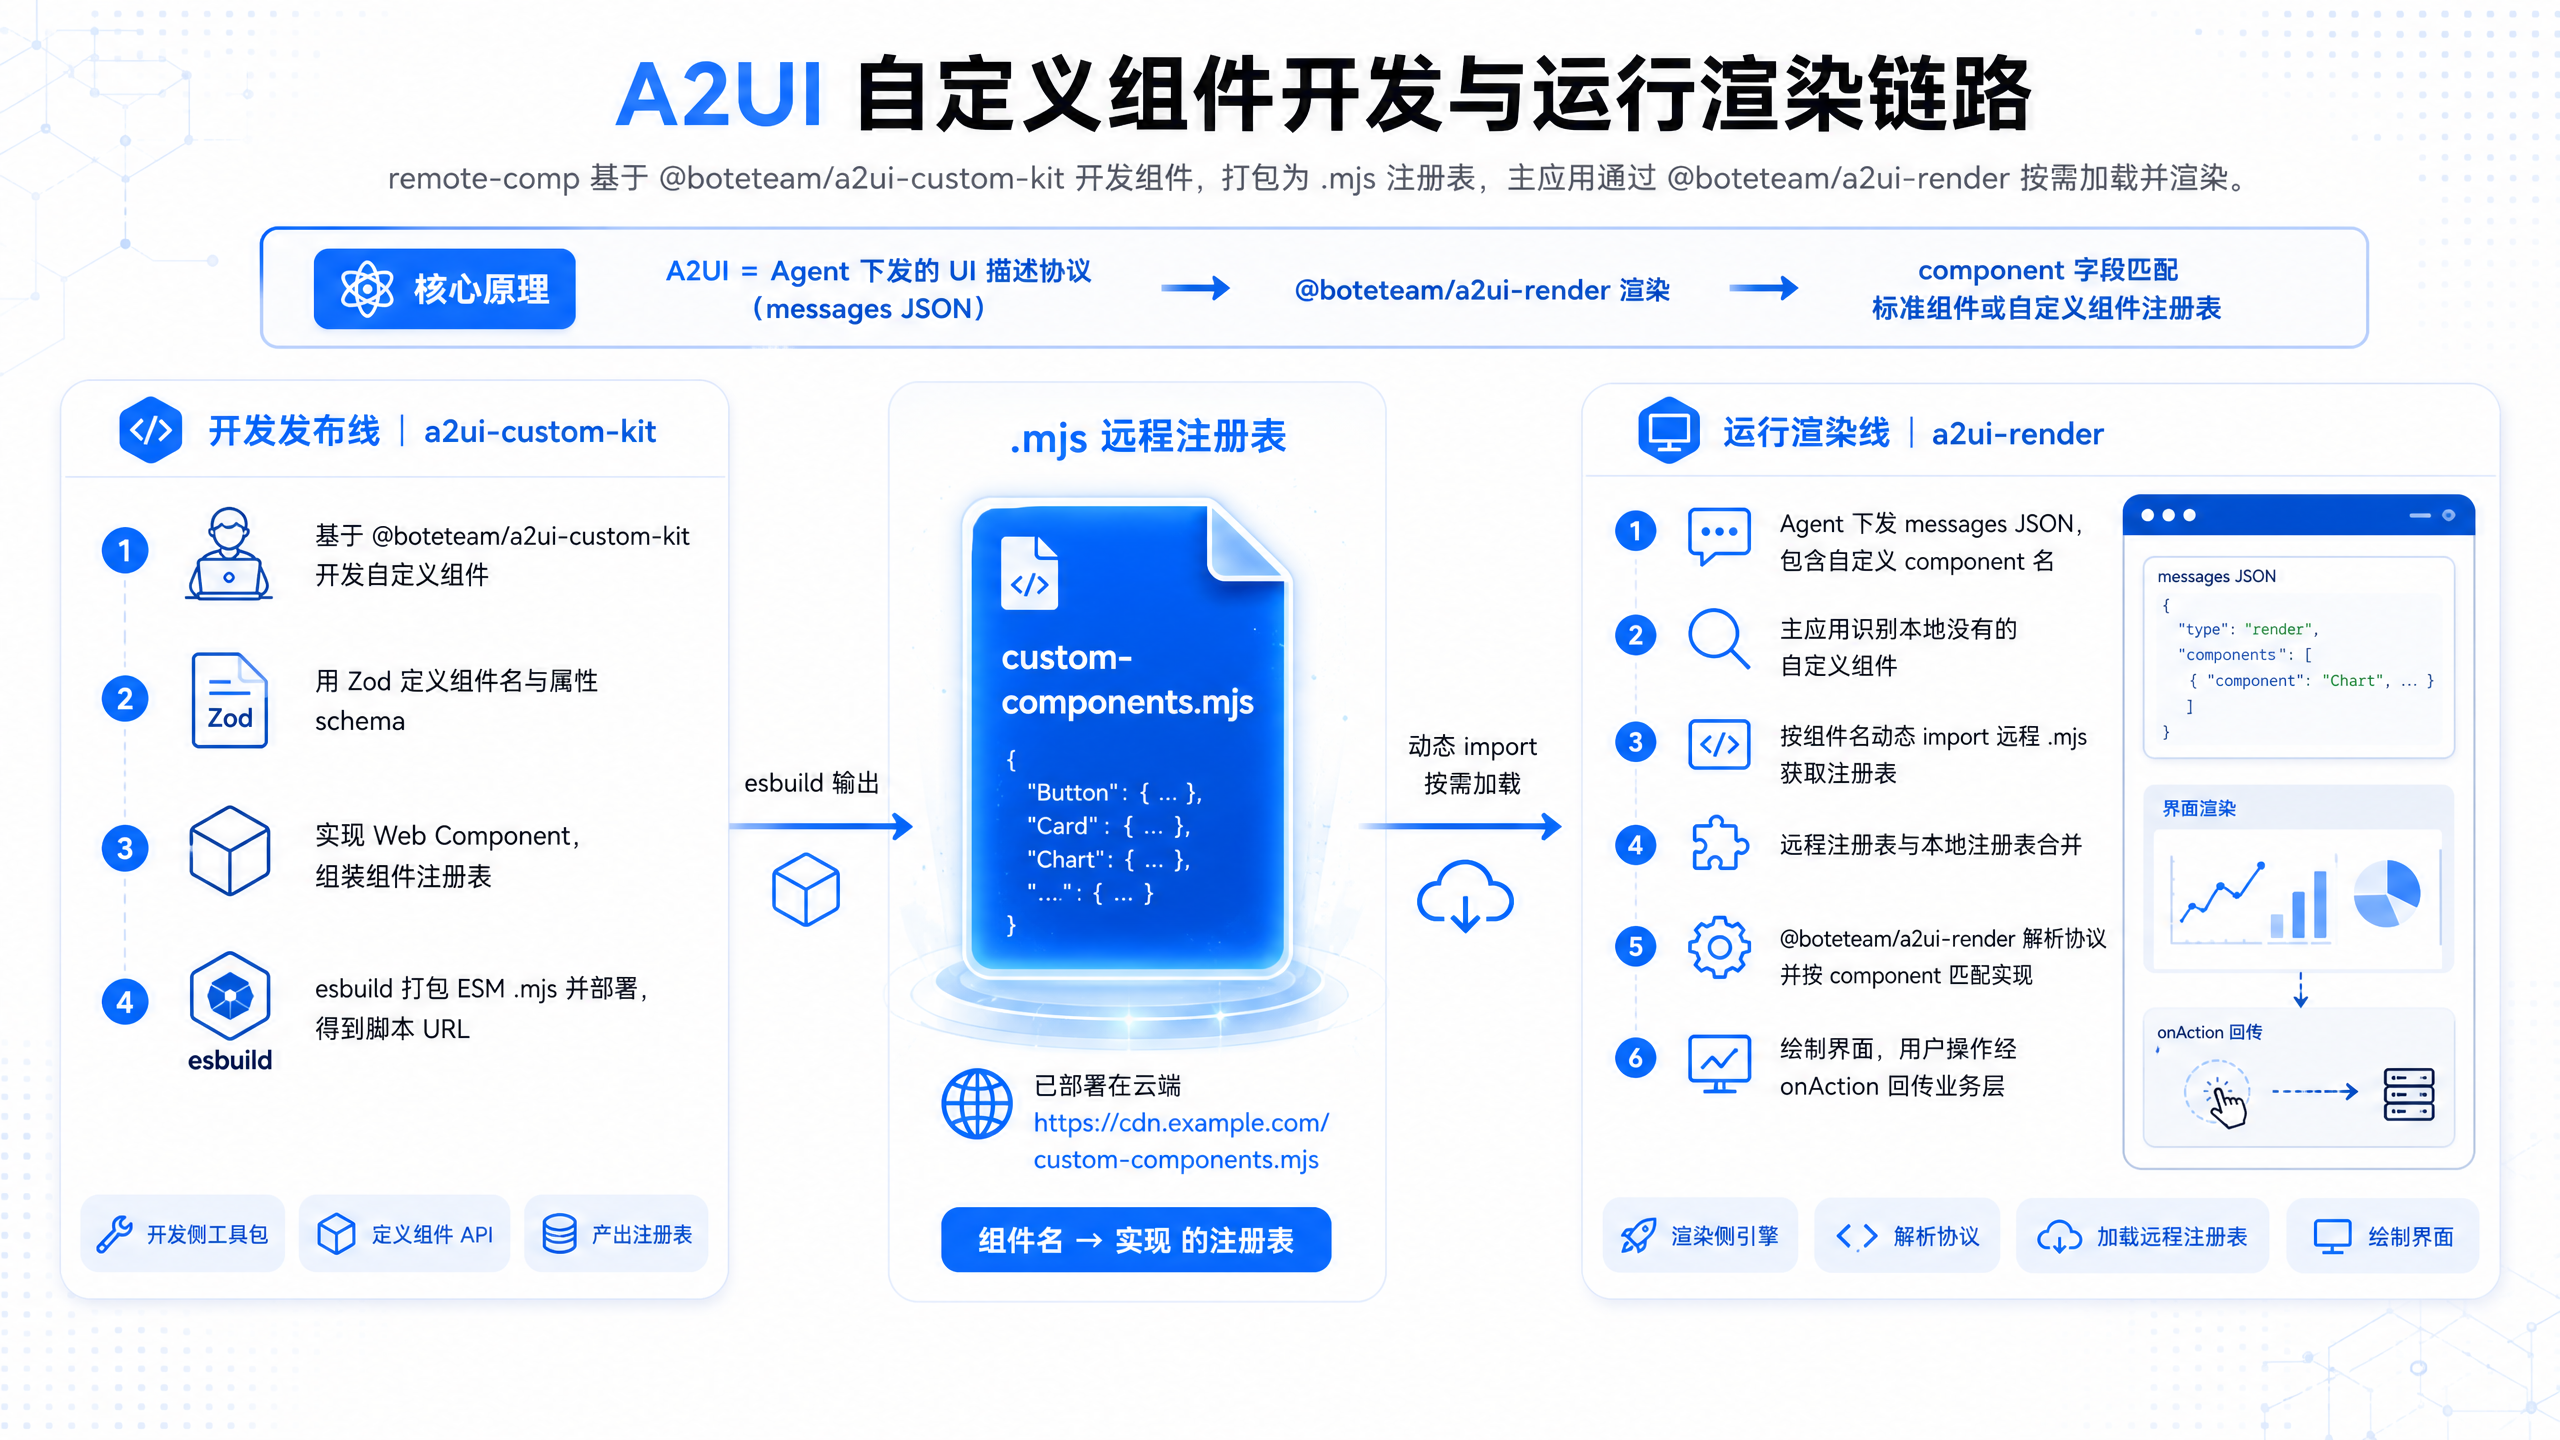
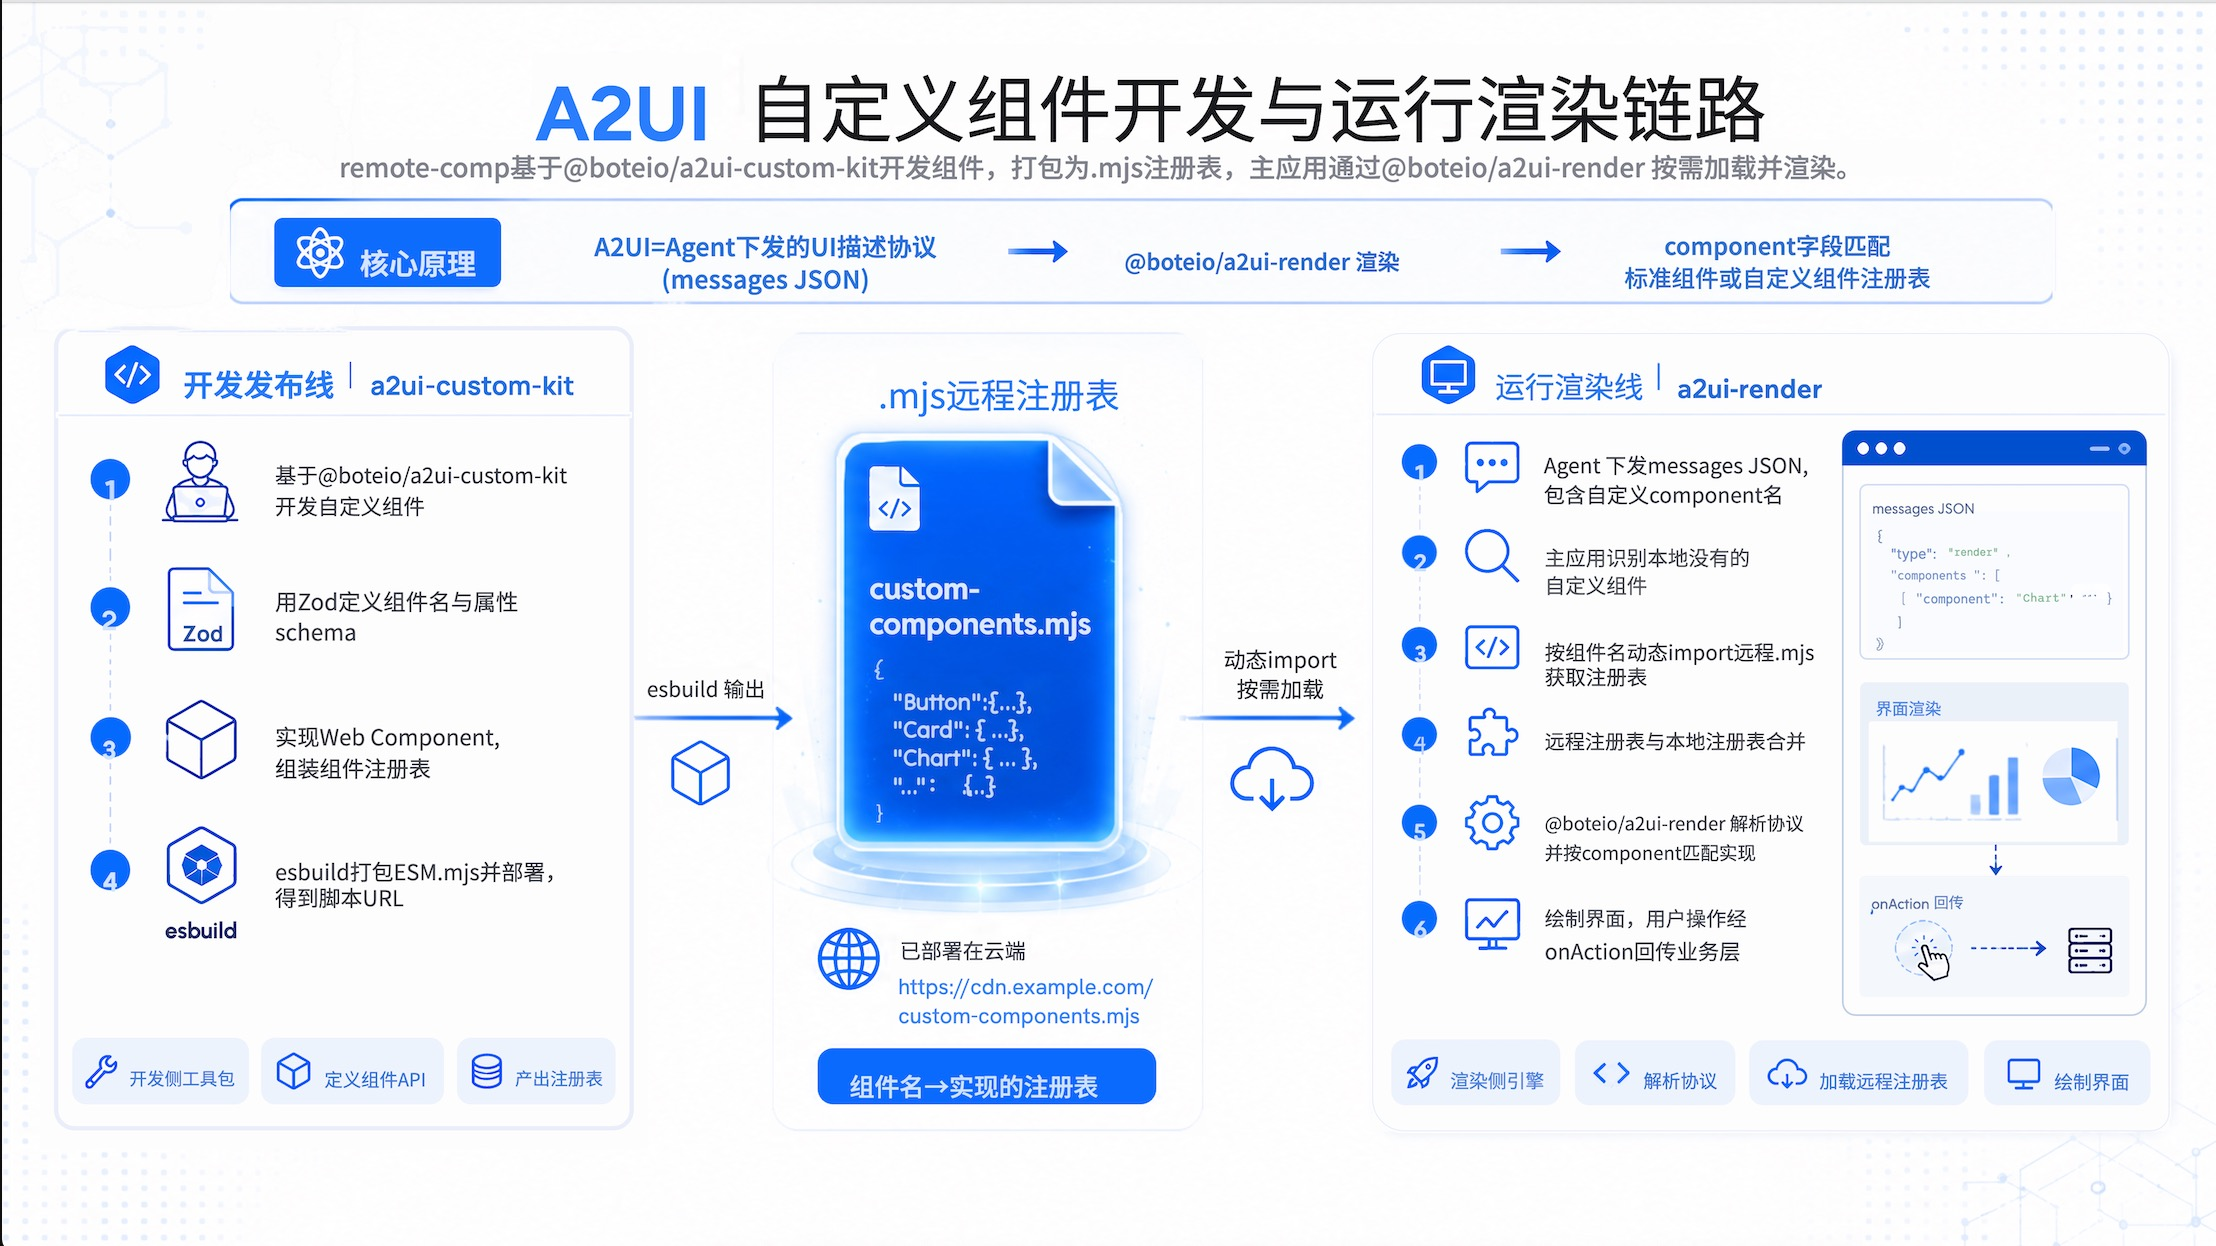
组装名bote 修改为boteio

diff --git a/app/src/pages/a2ui-playgroup/shared/DemoCard.tsx b/app/src/pages/a2ui-playgroup/shared/DemoCard.tsx
@@ -4,8 +4,8 @@ import {
   BaseRenderer,
   type A2UIMessage,
   type A2UIThemePreset,
-} from '@bote/a2ui-render';
-import type { A2UICustomComponentRegistry } from '@bote/a2ui-custom-kit';
+} from '@boteai/a2ui-render';
+import type { A2UICustomComponentRegistry } from '@boteai/a2ui-custom-kit';
 import type { GalleryItem } from './gallery';
 import { navigateTo, openGuideUrl } from './navigate';
 import styles from './index.less';

diff --git a/app/src/pages/a2ui-playgroup/shared/GalleryPlayground.tsx b/app/src/pages/a2ui-playgroup/shared/GalleryPlayground.tsx
@@ -16,8 +16,8 @@ import {
   BaseRenderer,
   type A2UIMessage,
   type A2UIThemePreset,
-} from '@bote/a2ui-render';
-import type { A2UICustomComponentRegistry } from '@bote/a2ui-custom-kit';
+} from '@boteai/a2ui-render';
+import type { A2UICustomComponentRegistry } from '@boteai/a2ui-custom-kit';
 import DemoCard from './DemoCard';
 import { GALLERY_CATEGORIES, GALLERY_CATEGORY_LABELS } from './galleryCategories';
 import type { GalleryCategoryId, GalleryItem } from './gallery';

diff --git a/app/src/pages/a2ui-playgroup/shared/PlaygroundEditor.tsx b/app/src/pages/a2ui-playgroup/shared/PlaygroundEditor.tsx
@@ -4,8 +4,8 @@ import {
   BaseRenderer,
   type A2UIMessage,
   type A2UIThemePreset,
-} from '@bote/a2ui-render';
-import type { A2UICustomComponentRegistry } from '@bote/a2ui-custom-kit';
+} from '@boteai/a2ui-render';
+import type { A2UICustomComponentRegistry } from '@boteai/a2ui-custom-kit';
 import styles from './index.less';
 
 const { TextArea } = Input;

diff --git a/app/src/pages/a2ui-playgroup/shared/gallery.ts b/app/src/pages/a2ui-playgroup/shared/gallery.ts
@@ -1,4 +1,4 @@
-import type { A2UIMessage } from '@bote/a2ui-render';
+import type { A2UIMessage } from '@boteai/a2ui-render';
 
 export type GalleryCategoryId = 'all' | 'card' | 'form' | 'data' | 'special';
 
@@ -18,7 +18,7 @@ type V09GalleryFile = {
   messages?: A2UIMessage[];
 };
 
-/** 与 @bote/a2ui-render litCompat09 中 basicCatalog.id 对齐 */
+/** 与 @boteai/a2ui-render litCompat09 中 basicCatalog.id 对齐 */
 const V09_BASIC_CATALOG_ID = 'https://a2ui.org/specification/v0_9/basic_catalog.json';
 
 function normalizeV09GalleryMessages(messages: A2UIMessage[]): A2UIMessage[] {

diff --git a/app/src/pages/a2ui-playgroup/v9/remoteRegistry.ts b/app/src/pages/a2ui-playgroup/v9/remoteRegistry.ts
@@ -1,5 +1,5 @@
-import { defineRegistryEntry, mergeRegistryEntries } from '@bote/a2ui-custom-kit';
-import type { A2UICustomComponentRegistry } from '@bote/a2ui-custom-kit';
+import { defineRegistryEntry, mergeRegistryEntries } from '@boteai/a2ui-custom-kit';
+import type { A2UICustomComponentRegistry } from '@boteai/a2ui-custom-kit';
 import { DemoNativeElementApi } from '../../a2ui-remote/DemoNativeElement/api';
 import { DemoNativeElementElement } from '../../a2ui-remote/DemoNativeElement/element';
 import { DemoReactComponentApi } from '../../a2ui-remote/DemoReactComponent/api';

diff --git a/packages/a2ui-custom-kit/src/types/customRegistry.ts b/packages/a2ui-custom-kit/src/types/customRegistry.ts
@@ -1,6 +1,6 @@
 /**
- * A2UI 自定义组件注册表：与 `@bote/a2ui-render` 的 `BaseRenderer` 的 `customComponents` 一致。
- * 由 `@bote/a2ui-custom-kit` 产出合并结果时，类型与此对齐。
+ * A2UI 自定义组件注册表：与 `@boteai/a2ui-render` 的 `BaseRenderer` 的 `customComponents` 一致。
+ * 由 `@boteai/a2ui-custom-kit` 产出合并结果时，类型与此对齐。
  */
 
 /** 自定义 Lit 组件定义：可直接传构造器，或传包含 tagName、schema 的配置对象 */

diff --git a/packages/a2ui-custom-kit/templates/remote-comp-a2ui/index.example.tsx b/packages/a2ui-custom-kit/templates/remote-comp-a2ui/index.example.tsx
@@ -2,7 +2,7 @@
  * 复制到 remote-comp：src/pages/A2UIRemoteGlow/index.tsx
  * lingxirc remoteComponents.entry 增加 'A2UIRemoteGlow'；给主应用 import 请用 yarn build:a2ui-esm 产出 .mjs，勿用 lingxi 的 build:remote .js
  *
- * 依赖：在 remote-comp 的 package.json 增加与主应用同版本的 @bote/a2ui-custom-kit
+ * 依赖：在 remote-comp 的 package.json 增加与主应用同版本的 @boteai/a2ui-custom-kit
  */
 import { z } from 'zod';
 import {
@@ -14,7 +14,7 @@ import {
   mergeRegistryEntries,
   readComponentProps,
   readStringProp,
-} from '@bote/a2ui-custom-kit/remote-runtime';
+} from '@boteai/a2ui-custom-kit/remote-runtime';
 
 const RemoteGlowCapsuleApi = defineComponentApi({
   name: 'RemoteGlowCapsule',

diff --git a/packages/a2ui-render/src/types/customRegistry.ts b/packages/a2ui-render/src/types/customRegistry.ts
@@ -1,6 +1,6 @@
 /**
- * A2UI 自定义组件注册表：与 `@bote/a2ui-render` 的 `BaseRenderer` 的 `customComponents` 一致。
- * 由 `@bote/a2ui-custom-kit` 产出合并结果时，类型与此对齐。
+ * A2UI 自定义组件注册表：与 `@boteai/a2ui-render` 的 `BaseRenderer` 的 `customComponents` 一致。
+ * 由 `@boteai/a2ui-custom-kit` 产出合并结果时，类型与此对齐。
  */
 
 /** 自定义 Lit 组件定义：可直接传构造器，或传包含 tagName、schema 的配置对象 */

diff --git a/scripts/publish.js b/scripts/publish.js
@@ -10,8 +10,8 @@ const rootDir = path.resolve(__dirname, '..');
 const PACKAGE_MAP = {
   'a2ui-render': 'packages/a2ui-render',
   'a2ui-custom-kit': 'packages/a2ui-custom-kit',
-  '@bote/a2ui-render': 'packages/a2ui-render',
-  '@bote/a2ui-custom-kit': 'packages/a2ui-custom-kit',
+  '@boteai/a2ui-render': 'packages/a2ui-render',
+  '@boteai/a2ui-custom-kit': 'packages/a2ui-custom-kit',
 };
 
 // ─── 参数解析 ───

diff --git a/app/scripts/a2ui-schema-registry.ts b/app/scripts/a2ui-schema-registry.ts
@@ -2,7 +2,7 @@
  * 在此登记需要导出 JSON Schema 的 ComponentApi。
  * 新增远程组件时：在对应目录 export Api 后在此追加一项。
  */
-import { componentApiToJsonSchema2019 } from '@bote/a2ui-custom-kit';
+import { componentApiToJsonSchema2019 } from '@boteai/a2ui-custom-kit';
 import { DemoNativeElementApi } from '../src/pages/a2ui-remote/DemoNativeElement/api';
 import { DemoReactComponentApi } from '../src/pages/a2ui-remote/DemoReactComponent/api';
 import { DemoStyledPanelApi } from '../src/pages/a2ui-remote/DemoStyledPanel/api';

diff --git a/app/src/pages/a2ui-playgroup/v9/index.tsx b/app/src/pages/a2ui-playgroup/v9/index.tsx
@@ -1,5 +1,5 @@
 import React, { useMemo } from 'react';
-import type { A2UIMessage } from '@bote/a2ui-render';
+import type { A2UIMessage } from '@boteai/a2ui-render';
 import GalleryPlayground from '../shared/GalleryPlayground';
 import showcaseMessages from './mock/showcase.json';
 import { a2uiV9CustomComponents } from './remoteRegistry';

diff --git a/app/src/pages/a2ui-remote/DemoActionDispatch/api.ts b/app/src/pages/a2ui-remote/DemoActionDispatch/api.ts
@@ -1,5 +1,5 @@
 import { z } from 'zod';
-import { ActionSchema, defineComponentApi, DynString } from '@bote/a2ui-custom-kit';
+import { ActionSchema, defineComponentApi, DynString } from '@boteai/a2ui-custom-kit';
 
 /**
  * 示例 4：dispatchDeclaredAction vs dispatchA2UIAction